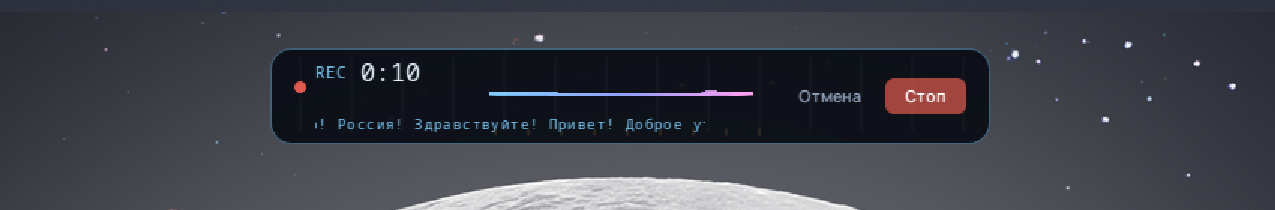
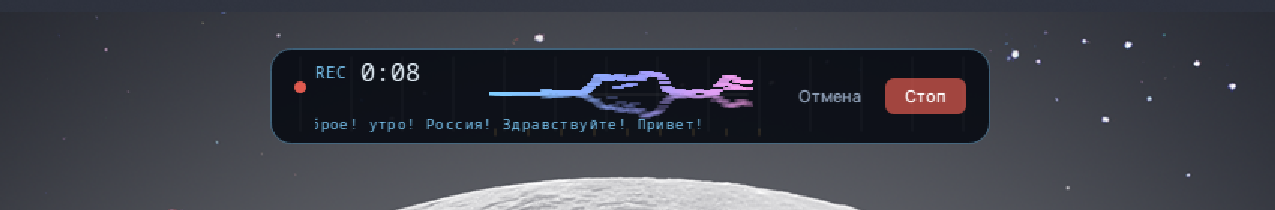
fix(preview): накопление текста и заморозка на тишине
- merge_text склеивает ответы по перекрытию слов: строка растёт, а не начинается
  заново при каждом скольжении окна
- пустой или короткий ответ (тишина/обрезанное аудио) оставляет прежний текст:
  на паузе строка застывает, а не пропадает
- HUD при новой строке сразу встаёт на хвост, без отката к началу
- тесты merge_text (133 OK)

Changed region(s): [[0.2447, 0.3429, 0.6118, 0.6286], [0.3059, 0.2857, 0.3365, 0.4]]

diff --git a/whisper_station/preview.py b/whisper_station/preview.py
@@ -26,6 +26,37 @@ MAX_SECONDS = 8.0
 TIMEOUT = 20.0
 
 
+def _words(items: list[str]) -> list[str]:
+    return [item.strip(".,!?;:—-\"'«»()").lower() for item in items]
+
+
+def merge_text(previous: str, fresh: str) -> str:
+    """Склеить новый фрагмент с накопленным по перекрытию слов.
+
+    Окно предпросмотра скользит, поэтому каждый ответ начинается не с начала
+    фразы. Ищем максимальное перекрытие «хвост старого == начало нового» и
+    дописываем только новую часть. Без перекрытия: короткий ответ считаем
+    артефактом тишины и оставляем прежний текст (строка застывает).
+    """
+    fresh = fresh.strip()
+    if not fresh:
+        return previous
+    if not previous:
+        return fresh
+    if fresh.startswith(previous):
+        return fresh
+    if previous.startswith(fresh):
+        return previous
+    old_words, new_words = previous.split(), fresh.split()
+    limit = min(len(old_words), len(new_words))
+    for size in range(limit, 0, -1):
+        if _words(old_words[-size:]) == _words(new_words[:size]):
+            return " ".join(old_words + new_words[size:])
+    if len(new_words) * 2 < len(old_words):
+        return previous
+    return fresh
+
+
 class Preview(QObject):
     """Периодическое распознавание накопленного аудио — только для HUD."""
 
@@ -73,12 +104,10 @@ class Preview(QObject):
             result = transcribe(
                 pcm_to_wav(pcm), self.cfg, timeout=TIMEOUT, retries=0
             )
-            text = result.text.strip()
-            # Отбрасываем только «обрезанный» ответ (он — префикс прежнего):
-            # так строка не прыгает назад, но и не замирает на устаревшем тексте.
-            if text and not (self._text and self._text.startswith(text)):
-                self._text = text
-                self.text_ready.emit(text)
+            merged = merge_text(self._text, result.text)
+            if merged and merged != self._text:
+                self._text = merged
+                self.text_ready.emit(merged)
         except SttError as exc:
             log.debug("preview: %s", exc)
         except Exception:  # noqa: BLE001 - предпросмотр не должен ломать запись

diff --git a/whisper_station/hud.py b/whisper_station/hud.py
@@ -109,10 +109,22 @@ class Hud(QWidget):
     def set_preview(self, text: str) -> None:
         """Показать живой предпросмотр распознавания (эксперимент)."""
         text = text.strip()
-        if text and not self._preview_text:
-            self._scroll_offset = 0.0
+        if not text:
+            return
+        grew = bool(self._preview_text) and text.startswith(self._preview_text)
         self._preview_text = text
+        if not grew:
+            # Новая строка: сразу встаём на хвост, без отката к началу.
+            self._scroll_offset = self._tail_offset()
         self.update()
+
+    def _tail_offset(self) -> float:
+        if not self._preview_text:
+            return 0.0
+        metrics = QFontMetrics(self._preview_font())
+        full = metrics.horizontalAdvance(self._preview_text)
+        available = WIDTH - PREVIEW_RIGHT_PAD - PREVIEW_LEFT
+        return min(0.0, available - full)
 
     def _preview_font(self) -> QFont:
         font = QFont("monospace")
@@ -125,10 +137,7 @@ class Hud(QWidget):
         """Плавно уводить строку влево, пока виден не весь текст."""
         if not self._preview_text:
             return
-        metrics = QFontMetrics(self._preview_font())
-        full = metrics.horizontalAdvance(self._preview_text)
-        available = WIDTH - PREVIEW_RIGHT_PAD - PREVIEW_LEFT
-        target = min(0.0, available - full)
+        target = self._tail_offset()
         if self._scroll_offset > target:
             self._scroll_offset = max(target, self._scroll_offset - PREVIEW_SCROLL_SPEED)
             self.update()

diff --git a/tests/test_preview.py b/tests/test_preview.py
@@ -26,6 +26,28 @@ class FakeRecorder:
         return b"\x00\x00" * 100
 
 
+class MergeTest(unittest.TestCase):
+    def test_extends(self) -> None:
+        self.assertEqual(preview_module.merge_text("привет", "привет как дела"), "привет как дела")
+
+    def test_overlap_words(self) -> None:
+        self.assertEqual(
+            preview_module.merge_text("раз два три", "три четыре пять"),
+            "раз два три четыре пять",
+        )
+
+    def test_short_noise_keeps_previous(self) -> None:
+        self.assertEqual(
+            preview_module.merge_text("раз два три четыре", "да"), "раз два три четыре"
+        )
+
+    def test_empty_keeps_previous(self) -> None:
+        self.assertEqual(preview_module.merge_text("текст", ""), "текст")
+
+    def test_regression_keeps_longer(self) -> None:
+        self.assertEqual(preview_module.merge_text("раз два три", "раз два"), "раз два три")
+
+
 class PreviewTest(unittest.TestCase):
     @classmethod
     def setUpClass(cls) -> None:

diff --git a/docs/DECISIONS.md b/docs/DECISIONS.md
@@ -93,8 +93,11 @@ KWin присылает `globalShortcutPressed` на нажатие и `globalSh
 показывается в нижней строке HUD. Целевое окно и буфер обмена не затрагиваются:
 финальный текст по-прежнему вставляется только после остановки.
 Строка в HUD — плавная бегущая строка: текст едет влево на ~50 px/с, пока не
-покажет хвост. Ответы-префиксы (обрезанное аудио) отбрасываются, чтобы строка не
-прыгала назад. Окно — последние 8 с, интервал 1.8 с: запрос занимает 0.4–0.7 с
+покажет хвост. Каждый ответ склеивается с накопленным по перекрытию слов
+(`merge_text`), поэтому строка растёт, а не начинается заново; пустой или слишком
+короткий ответ (тишина, обрезанное аудио) оставляет прежний текст — на паузе строка
+застывает, а не пропадает. При появлении новой строки HUD сразу встаёт на хвост,
+без отката к началу. Окно — последние 8 с, интервал 1.8 с: запрос занимает 0.4–0.7 с
 (на 21.8 с аудио было 1.1–1.4 с, то есть ~100 % времени сервера). Запросы идут
 только пока идёт запись: таймер запускается вместе с ней и останавливается на стоп/отмене.
 Включается `[preview] live = true` или галочкой в настройках.

diff --git a/docs/VERIFICATION.md b/docs/VERIFICATION.md
@@ -143,6 +143,9 @@ PySide6 6.12.0. Сервер Whisper: `large-v3-turbo`, CUDA float16, `127.0.0.1
 | Затраты | окно 8 с -> 0.42–0.73 с на запрос; интервал 1.8 с -> ~29 % времени сервера во время записи |
 | Было | окно 21.8 с -> 1.1–1.4 с на запрос, интервал 1.2 с -> ~100 % (слишком много) |
 | Бегущая строка | текст плавно едет влево (1.7 px/33 мс), хвост остаётся видимым |
+| Накопление | окна 'Доброе утро!' -> 'Россия!' -> ... склеиваются в одну растущую строку |
+| Тишина | пустой/короткий ответ не меняет строку: на 25 с записи текст застыл |
+| Откат к началу | новая строка сразу встаёт на хвост (offset = tail), а не в 0 |
 | Бегущая строка | на 12 с и 17 с записи видимая часть сдвигается (хвост с «…») |
 | Прыжки назад | обрезанные ответы-префиксы отбрасываются |
 
